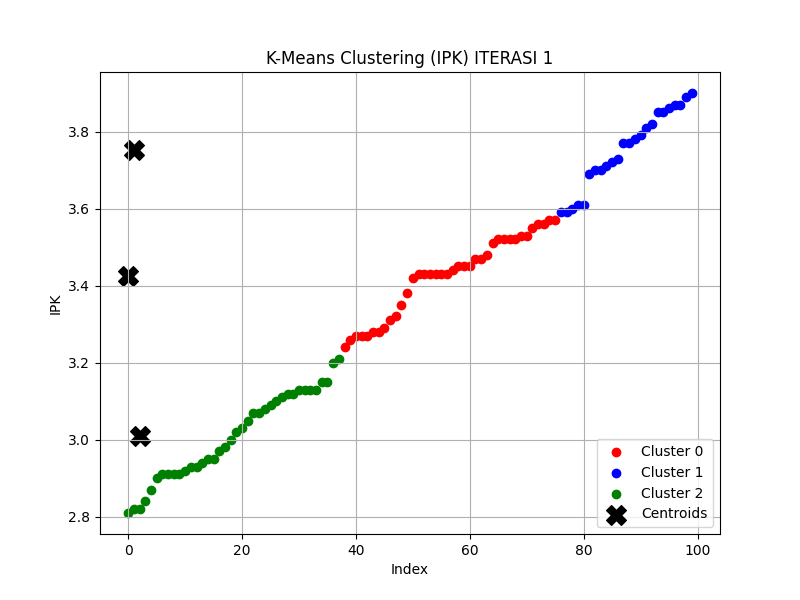
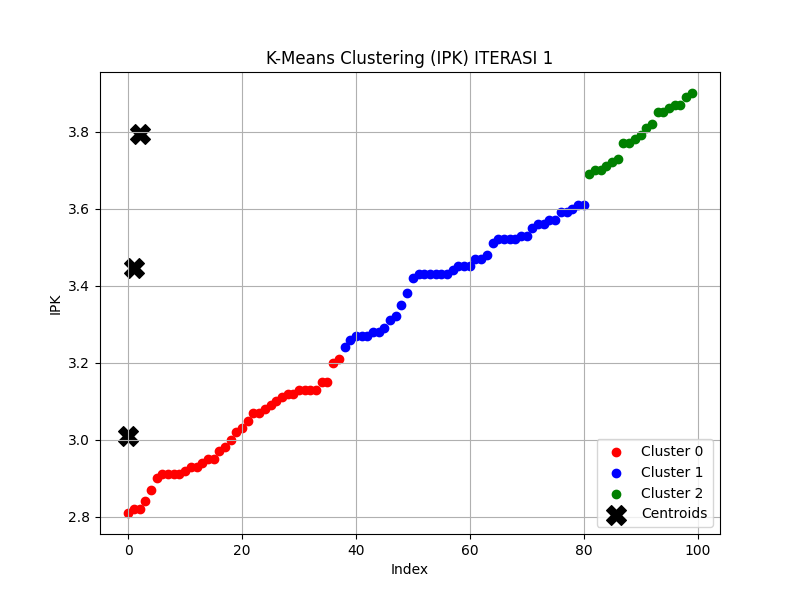
create visualization

diff --git a/Frontend/src/pages/Home.jsx b/Frontend/src/pages/Home.jsx
@@ -6,12 +6,16 @@ import Hero from "../components/shared/hero";
 const Home = () => {
   const [kMeanImage, setKMeanImage] = useState(null);
   const [kMeanImage1, setKMeanImage1] = useState(null);
+  const [kMeanImage2, setKMeanImage2] = useState(null);
   const [kMedoidImage, setKMedoidImage] = useState(null);
 
   useEffect(() => {
-    // Fetch K-Means Visualization
+    const timestamp = new Date().getTime(); // Unique timestamp to avoid caching
+
     axios
-      .get("http://127.0.0.1:5001/Kmean/visualize", { responseType: "blob" })
+      .get(`http://127.0.0.1:5001/Kmean/visualize3?timestamp=${timestamp}`, {
+        responseType: "blob",
+      })
       .then((response) => {
         const url = URL.createObjectURL(response.data);
         setKMeanImage(url);
@@ -21,18 +25,33 @@ const Home = () => {
       );
 
     axios
-      .get("http://127.0.0.1:5001/Kmean/visualize1", { responseType: "blob" })
+      .get(`http://127.0.0.1:5001/Kmean/visualize1?timestamp=${timestamp}`, {
+        responseType: "blob",
+      })
       .then((response) => {
         const url = URL.createObjectURL(response.data);
         setKMeanImage1(url);
       })
       .catch((error) =>
-        console.error("Error fetching K-Means visualization:", error)
+        console.error("Error fetching K-Means visualization ITERASI 1:", error)
       );
 
-    // Fetch K-Medoids Visualization
     axios
-      .get("http://127.0.0.1:5001/Kmedoid/visualize", { responseType: "blob" })
+      .get(`http://127.0.0.1:5001/Kmean/visualize2?timestamp=${timestamp}`, {
+        responseType: "blob",
+      })
+      .then((response) => {
+        const url = URL.createObjectURL(response.data);
+        setKMeanImage2(url);
+      })
+      .catch((error) =>
+        console.error("Error fetching K-Means visualization ITERASI 1:", error)
+      );
+
+    axios
+      .get(`http://127.0.0.1:5001/Kmedoid/visualize2?timestamp=${timestamp}`, {
+        responseType: "blob",
+      })
       .then((response) => {
         const url = URL.createObjectURL(response.data);
         setKMedoidImage(url);
@@ -43,53 +62,73 @@ const Home = () => {
   }, []);
 
   return (
-    <div className="text-black min-h-screen">
+    <div className="text-black">
       <Hero />
       <h1 className="text-3xl font-bold mb-4 text-center">
         Clustering Application
       </h1>
-      <div className="flex items-center justify-center p-6 space-x-7">
-        {/* K-Means Section */}
-        <div className="w-full max-w-3xl shadow-md rounded bg-gray-400 p-5">
-          <h2 className="text-2xl font-semibold mb-4">K-Means Visualization</h2>
-          {kMeanImage ? (
-            <img
-              src={kMeanImage}
-              alt="K-Means Visualization"
-              className="w-full h-auto rounded"
-            />
-          ) : (
-            <p>Loading K-Means visualization...</p>
-          )}
-        </div>
+      <div className="flex items-center justify-around">
+        <div className="items-center justify-center p-6 space-y-7 ">
+          <div className="w-full max-w-3xl shadow-md rounded bg-gray-400 p-5">
+            <h2 className="text-2xl font-semibold mb-4">
+              K-Means Visualization
+            </h2>
+            {kMeanImage ? (
+              <img
+                src={kMeanImage}
+                alt="K-Means Visualization"
+                className="w-full h-auto rounded"
+              />
+            ) : (
+              <p>Loading K-Means visualization...</p>
+            )}
+          </div>
 
-        <div className="w-full max-w-3xl shadow-md rounded bg-gray-400 p-5">
-          <h2 className="text-2xl font-semibold mb-4">K-Means Visualization ITERASI 1</h2>
-          {kMeanImage1 ? (
-            <img
-              src={kMeanImage}
-              alt="K-Means Visualization"
-              className="w-full h-auto rounded"
-            />
-          ) : (
-            <p>Loading K-Means visualization...</p>
-          )}
-        </div>
+          <div className="w-full max-w-3xl shadow-md rounded bg-gray-400 p-5">
+            <h2 className="text-2xl font-semibold mb-4">
+              K-Means Visualization ITERASI 1
+            </h2>
+            {kMeanImage1 ? (
+              <img
+                src={kMeanImage1}
+                alt="K-Means Visualization ITERASI 1"
+                className="w-full h-auto rounded"
+              />
+            ) : (
+              <p>Loading K-Means visualization ITERASI 1...</p>
+            )}
+          </div>
 
-        {/* K-Medoids Section */}
-        <div className="w-full max-w-3xl shadow-md rounded bg-gray-400 p-5">
-          <h2 className="text-2xl font-semibold mb-4">
-            K-Medoids Visualization
-          </h2>
-          {kMedoidImage ? (
-            <img
-              src={kMedoidImage}
-              alt="K-Medoids Visualization"
-              className="w-full h-auto rounded"
-            />
-          ) : (
-            <p>Loading K-Medoids visualization...</p>
-          )}
+          <div className="w-full max-w-3xl shadow-md rounded bg-gray-400 p-5">
+            <h2 className="text-2xl font-semibold mb-4">
+              K-Means Visualization ITERASI 2
+            </h2>
+            {kMeanImage2 ? (
+              <img
+                src={kMeanImage2}
+                alt="K-Means Visualization ITERASI 1"
+                className="w-full h-auto rounded"
+              />
+            ) : (
+              <p>Loading K-Means visualization ITERASI 2...</p>
+            )}
+          </div>
+        </div>
+        <div className="flex items-center justify-center p-6 space-x-7">
+          <div className="w-full max-w-3xl shadow-md rounded bg-gray-400 p-5">
+            <h2 className="text-2xl font-semibold mb-4">
+              K-Medoids Visualization
+            </h2>
+            {kMedoidImage ? (
+              <img
+                src={kMedoidImage}
+                alt="K-Medoids Visualization"
+                className="w-full h-auto rounded"
+              />
+            ) : (
+              <p>Loading K-Medoids visualization...</p>
+            )}
+          </div>
         </div>
       </div>
       <div className="flex flex-col items-center justify-center">

diff --git a/backend/app.py b/backend/app.py
@@ -3,7 +3,11 @@ from flask_cors import CORS
 import pandas as pd
 from sklearn.cluster import KMeans
 import numpy as np
+import matplotlib
+matplotlib.use('Agg')
 import matplotlib.pyplot as plt
+
+
 
 app = Flask(__name__)
 CORS(app)
@@ -30,17 +34,19 @@ def cluster_kmeans():
 
     return jsonify(data.to_dict(orient='records'))
 
-# Endpoint untuk visualisasi K-Means ITERASI 1 dan 2
+# Endpoint untuk visualisasi K-Means ITERASI 1
 # Membaca data dari CSV
 data_iterasi1 = pd.read_csv('iterasi1.csv')
-# Endpoint untuk visualisasi K-Means ITERASI 1
 @app.route('/Kmean/visualize1', methods=['GET'])
 def visualize_kmeans_1():
     # Mengambil IPK sebagai input clustering
     ipk_values = data_iterasi1['ipk'].values.reshape(-1, 1)
 
-    # K-Means Clustering
-    kmeans = KMeans(n_clusters=3, random_state=42)
+    # Nilai centroid awal
+    initial_centroids = [[3.11], [3.43], [3.89]]
+
+    # K-Means Clustering dengan centroid awal
+    kmeans = KMeans(n_clusters=3, init=np.array(initial_centroids), n_init=1, random_state=42)
     kmeans.fit(ipk_values)
     data_iterasi1['Cluster'] = kmeans.labels_
 
@@ -50,7 +56,9 @@ def visualize_kmeans_1():
     for cluster in range(3):
         cluster_data = data_iterasi1[data_iterasi1['Cluster'] == cluster]
         plt.scatter(cluster_data.index, cluster_data['ipk'], color=colors[cluster], label=f'Cluster {cluster}')
-    plt.scatter(range(len(kmeans.cluster_centers_)), kmeans.cluster_centers_, color='black', marker='X', s=200, label='Centroids')
+    
+    # Centroid plot
+    plt.scatter(range(len(kmeans.cluster_centers_)), kmeans.cluster_centers_.flatten(), color='black', marker='X', s=200, label='Centroids')
     plt.title('K-Means Clustering (IPK) ITERASI 1')
     plt.xlabel('Index')
     plt.ylabel('IPK')
@@ -62,9 +70,48 @@ def visualize_kmeans_1():
     plt.close()
     return send_file('kmeans_visualization_iterasi1.png', mimetype='image/png')
 
+
+# Endpoint untuk visualisasi K-Means ITERASI 2
+data_iterasi2 = pd.read_csv('iterasi2.csv')
+@app.route('/Kmean/visualize2', methods=['GET'])
+def visualize_kmeans_iterasi2():
+    # Mengambil IPK sebagai input clustering
+    ipk_values = data_iterasi2['ipk'].values.reshape(-1, 1)
+
+    # Nilai centroid awal
+    initial_centroids = [[3.02], [3.46], [3.79]]
+
+    # K-Means Clustering dengan centroid awal
+    kmeans = KMeans(n_clusters=3, init=np.array(initial_centroids), n_init=1, random_state=42)
+    kmeans.fit(ipk_values)
+    data_iterasi2['Cluster'] = kmeans.labels_
+
+    # Plot data
+    plt.figure(figsize=(8, 6))
+    colors = ['red', 'blue', 'green']
+    for cluster in range(3):
+        cluster_data = data_iterasi2[data_iterasi2['Cluster'] == cluster]
+        plt.scatter(
+            cluster_data.index, cluster_data['ipk'], color=colors[cluster], label=f'Cluster {cluster}'
+        )
+    
+    # Centroid plot
+    plt.scatter(range(len(kmeans.cluster_centers_)), kmeans.cluster_centers_.flatten(), color='black', marker='X', s=200, label='Centroids')
+    plt.title('K-Means Clustering (IPK) ITERASI 2')
+    plt.xlabel('Index')
+    plt.ylabel('IPK')
+    plt.legend()
+    plt.grid(True)
+
+    # Simpan gambar dan kirimkan sebagai response
+    plt.savefig('kmeans_visualization_iterasi2.png')
+    plt.close()
+    return send_file('kmeans_visualization_iterasi2.png', mimetype='image/png')
+
+
 # Endpoint untuk visualisasi K-Means ITERASI 3
-@app.route('/Kmean/visualize', methods=['GET'])
-def visualize_kmeans_2():
+@app.route('/Kmean/visualize3', methods=['GET'])
+def visualize_kmeans_3():
     # Mengambil IPK sebagai input clustering
     ipk_values = data['ipk'].values.reshape(-1, 1)
 
@@ -91,6 +138,40 @@ def visualize_kmeans_2():
     plt.close()
     return send_file('kmeans_visualization_iterasi3.png', mimetype='image/png')
 
+# @app.route('/Kmean/visualize3', methods=['GET'])
+# def visualize_kmeans_3():
+#     # Load the CSV data
+#     data = pd.read_csv('kh.csv')  # Make sure the file is in the right path
+
+#     # Selecting the relevant columns (C0, C1, C2) for clustering
+#     features = data[['C0', 'C1', 'C2']]
+
+#     # K-Means Clustering
+#     kmeans = KMeans(n_clusters=3, random_state=42)
+#     kmeans.fit(features)
+#     data['Cluster'] = kmeans.labels_
+
+#     # Plot data
+#     plt.figure(figsize=(8, 6))
+#     colors = ['red', 'blue', 'green']
+    
+#     for cluster in range(3):
+#         cluster_data = data[data['Cluster'] == cluster]
+#         plt.scatter(cluster_data.index, cluster_data['C0'], color=colors[cluster], label=f'Cluster {cluster}')
+    
+#     plt.scatter(range(len(kmeans.cluster_centers_)), kmeans.cluster_centers_[:, 0], color='black', marker='X', s=200, label='Centroids')
+#     plt.title('K-Means Clustering (C0) - Iterasi 3')
+#     plt.xlabel('Index')
+#     plt.ylabel('C0')
+#     plt.legend()
+#     plt.grid(True)
+
+    # Save the image and send as response
+    plt.savefig('kmeans_visualization_iterasi3.png')
+    plt.close()
+    return send_file('kmeans_visualization_iterasi3.png', mimetype='image/png')
+
+
 # Endpoint untuk K-Medoids (Manual)
 @app.route('/Kmedoid', methods=['GET'])
 def cluster_kmedoids():
@@ -109,7 +190,7 @@ def cluster_kmedoids():
     return jsonify(data.to_dict(orient='records'))
 
 # Endpoint untuk visualisasi K-Medoids
-@app.route('/Kmedoid/visualize', methods=['GET'])
+@app.route('/Kmedoid/visualize2', methods=['GET'])
 def visualize_kmedoids():
     centroids = [3.11, 3.43, 3.89]
 
